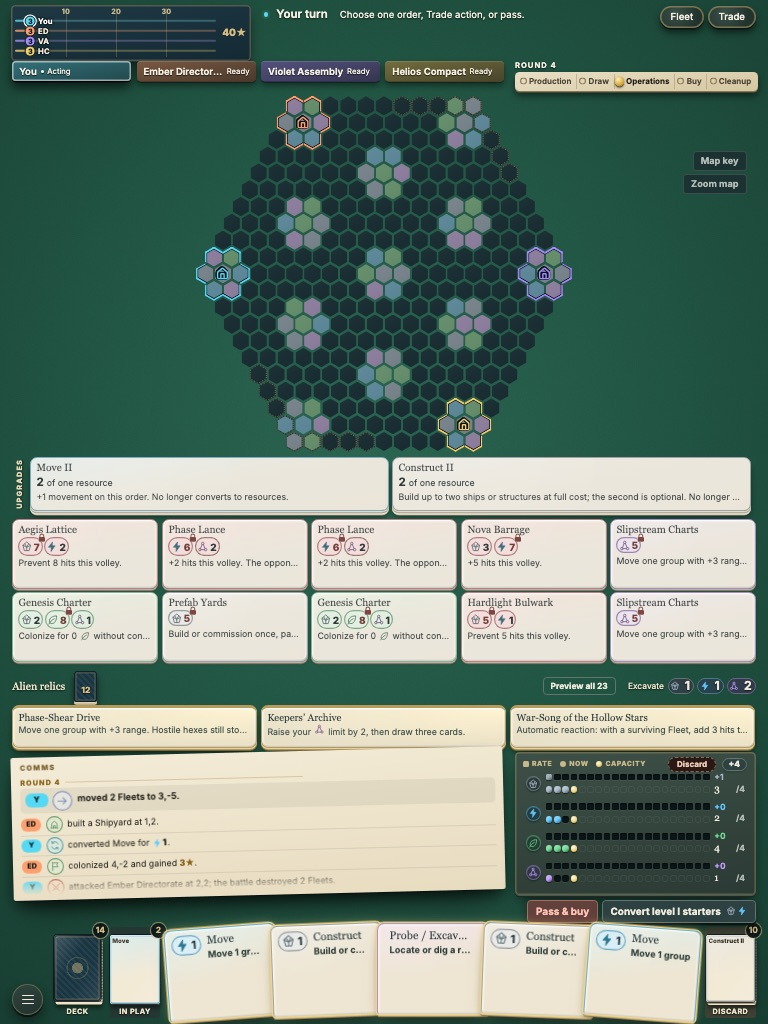
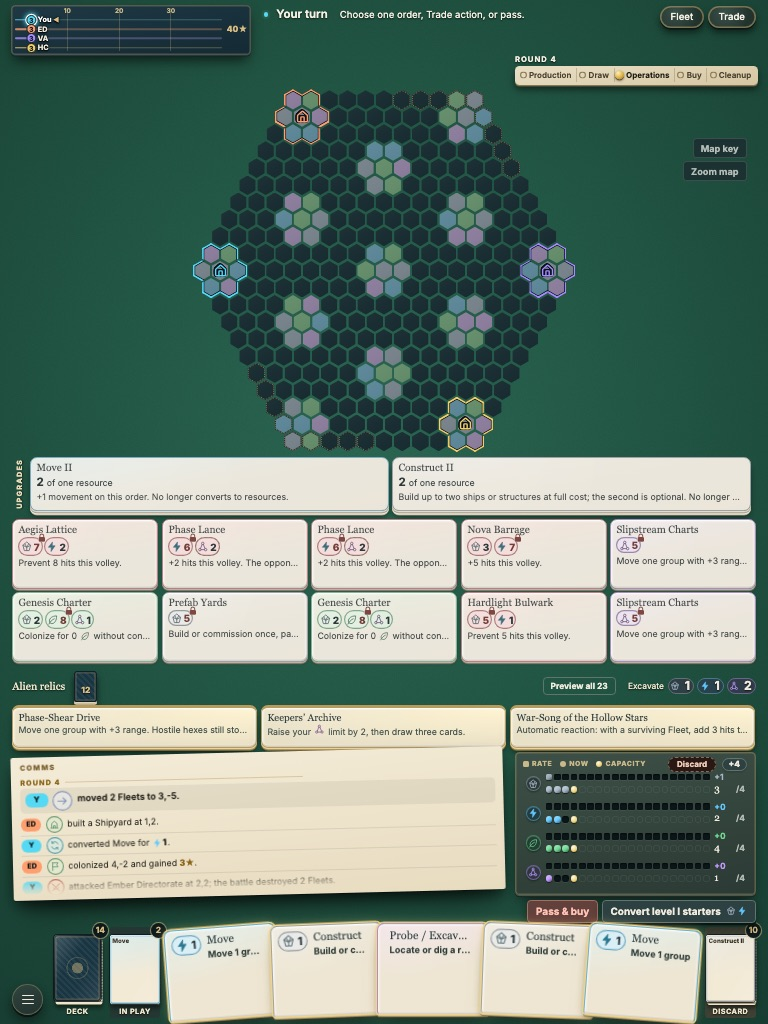
Standings live on the Prestige track: no faction name tiles; a compact track whose markers glow for the acting faction, show the overview on hover or focus and open the breakdown; the phone Table drawer is the track

Changed region(s): [[0.0, 0.0, 1.0, 0.4375], [0.875, 0.125, 0.9688, 0.1875]]

diff --git a/prototypes/galactic-reach/styles.css b/prototypes/galactic-reach/styles.css
@@ -1426,7 +1426,6 @@ summary:focus-visible, input:focus-visible, select:focus-visible { outline: 2px 
     --lane-h: 13px;
     --track-h: calc(var(--lanes) * var(--lane-h) + 16px);
     --board-w: calc((var(--table-h, 100dvh) - 16px - var(--front-h) - var(--track-h) - 46px) * 1.0543 + 26px);
-    --score-h: 26px;
     --cap-w: 150px;
     --res-w: 238px;
     --pile-w: max(52px, calc((var(--front-h) - 26px) * .716));
@@ -1436,9 +1435,7 @@ summary:focus-visible, input:focus-visible, select:focus-visible { outline: 2px 
     display: grid; grid-template-columns: var(--left-w) minmax(0, var(--board-w)) minmax(0, 1fr);
     grid-template-rows: auto auto auto auto minmax(0, 1fr) auto auto var(--front-h); gap: 6px 14px;
   }
-  .game-layout, .board-column, .board-stage, .board-canvas, .board-heading, .board-shared,
-  .faction-mats, .board-reference, .player-tableau, .console, .console-body, #hand-panel,
-  #hand-panel > .section-intro { display: contents; }
+  .game-layout, .board-column, .board-stage, .board-canvas, .board-heading, .board-shared, .board-reference, .player-tableau, .console, .console-body, #hand-panel, #hand-panel > .section-intro { display: contents; }
   .board-heading .board-inscription, .board-key, .prestige-legend, .table-jump, .map-pan-hint,
   .brand-seal, .summary-hint, .round-block { display: none !important; }
   #hand-panel > .section-intro > div:first-child, #market-panel .section-intro h2, #market-help, .resource-panel .panel-heading, #storage-upgrade-help, #history-status, #resource-tools-help {
@@ -1478,28 +1475,10 @@ summary:focus-visible, input:focus-visible, select:focus-visible { outline: 2px 
   .playtest-changes[open] > .button { display: none; }
   .playtest-changes[open] > p { position: fixed; left: 322px; bottom: calc(var(--front-h) + 14px); top: auto; transform: none; width: min(640px, calc(var(--table-w) - 346px)); min-height: 42px; margin: 0; padding: 8px 18px; border: 1px solid #a49c6f99; border-top-color: var(--line); border-radius: 0 0 10px 10px; background: #1b2b2d; box-sizing: border-box; }
 
-  /* ---- Left of the board: every faction's standings, then the comms feed. ---- */
-  .board-shared .score-ribbon { grid-column: 1; grid-row: 1 / 8; z-index: 8; align-self: start; margin: 12px 0 0 12px !important; display: grid; grid-template-columns: minmax(0, 1fr); grid-auto-rows: var(--score-h); gap: 5px; padding: 0; }
-  .board-shared .score-card, .board-shared .score-card:nth-child(n) {
-    grid-row: auto; grid-column: auto; position: relative; display: block; width: auto; max-width: none; height: var(--score-h); margin: 0; padding: 0 8px 0 9px; justify-self: stretch; overflow: hidden;
-    border: 0; border-left: 4px solid var(--player); border-radius: 7px;
-    background: linear-gradient(160deg, #2d403b, #22322f); box-shadow: inset 0 1px 0 #ffffff14, 0 3px 0 #0a1513, 0 8px 14px #0005;
-  }
-  .board-shared .score-card.active { box-shadow: inset 0 0 0 1.5px var(--player), 0 3px 0 #0a1513, 0 8px 14px #0005; }
-  .board-shared .score-info { display: flex; flex-wrap: nowrap; align-items: baseline; gap: 0 5px; height: 100%; align-items: center; }
-  .board-shared .score-meta { display: none; }
-  .board-shared .score-card .score-top { display: contents; }
-  .board-shared .score-card .score-name { flex: 0 1 auto; min-width: 0; overflow: hidden; text-overflow: ellipsis; white-space: nowrap; font-size: 12.5px; }
-  .board-shared .score-card .score-turn, .board-shared .score-meta > * { font-size: 10px; line-height: 1.25; color: var(--muted); white-space: nowrap; }
-  .board-shared .score-card.active .score-turn { color: var(--text); }
-  /* The score is on the Prestige lanes. The whole row opens the breakdown; pointing at it or
-     focusing it shows an overview card of that faction's points and stats. */
-  .board-shared button.score-value { position: absolute; inset: 0; z-index: 1; width: auto; min-width: 0; min-height: 0; margin: 0; padding: 0; border: 0; border-radius: inherit; background: none; box-shadow: none; color: transparent; font-size: 0; cursor: pointer; }
-  .board-shared button.score-value:focus-visible { outline: 2px solid var(--cyan); outline-offset: 1px; }
-  .board-shared .score-ribbon { z-index: 8; }
-  .board-shared .score-card:nth-child(n) { overflow: visible; }
+  /* Each Prestige marker opens its faction's point breakdown; pointing at it or focusing it shows
+     an overview card of that faction's points and stats. */
   .score-overview { position: absolute; width: 1px; height: 1px; overflow: hidden; clip-path: inset(50%); white-space: nowrap; }
-  .board-shared .score-card:is(:hover, :focus-within) .score-overview {
+  .prestige-marker:is(:hover, :focus-visible) + .score-overview {
     left: calc(100% + 8px); top: -6px; z-index: 40; width: 240px; height: auto; overflow: visible; clip-path: none; white-space: normal; pointer-events: none;
     padding: 8px 10px 7px; border: 1px solid color-mix(in srgb, var(--player) 60%, #a49c6f); border-left: 4px solid var(--player); border-radius: 8px;
     background: linear-gradient(160deg, #1d302d, #142320); box-shadow: 0 14px 30px #000a; color: var(--text); font-size: 11.5px; line-height: 1.3;
@@ -1511,7 +1490,7 @@ summary:focus-visible, input:focus-visible, select:focus-visible { outline: 2px 
   .score-overview dt { color: var(--muted); }
   .score-overview dd { margin: 0; font-weight: 700; }
   .score-overview p { margin: 6px 0 0; padding-top: 5px; border-top: 1px solid #d9bd8026; color: var(--muted); font-size: 10.5px; }
-  .board-shared .score-value small, .faction-counter { display: none; }
+
   /* The comms feed fills the rest of the left side; it scrolls on its own, newest first. */
   .log-panel {
     grid-column: 3; grid-row: 1; align-self: start; height: var(--log-h); position: relative; z-index: 4; min-width: 0; min-height: 0; display: flex; flex-direction: column;
@@ -1611,12 +1590,7 @@ summary:focus-visible, input:focus-visible, select:focus-visible { outline: 2px 
   .prestige-marker b { flex: none; display: grid; place-items: center; min-width: 14px; height: 14px; padding: 0 2px; border: 1.5px solid #0d1a1d; border-radius: 7px; background: var(--player); color: #0d1a1d; font-size: 9.5px; font-weight: 800; }
   .prestige-name { font-weight: 700; letter-spacing: .02em; text-shadow: 0 1px 2px #000, 0 0 3px #000; }
   .prestige-marker.acting b { box-shadow: 0 0 0 1.5px #fff; }
-  .prestige-marker::after {
-    content: attr(aria-label); position: absolute; z-index: 40; left: 0; top: calc(100% + 4px); display: none; padding: 4px 9px; border: 1px solid var(--player); border-radius: 6px; background: #0d1a1d; color: var(--text);
-    font-family: Inter, ui-sans-serif, system-ui, -apple-system, BlinkMacSystemFont, "Segoe UI", sans-serif; font-size: 12px; font-weight: 700; line-height: 1.3; white-space: nowrap; text-shadow: none; box-shadow: 0 6px 16px #0008; pointer-events: none;
-  }
-  .prestige-marker:hover::after { display: block; }
-  .prestige-marker.flip::after { left: auto; right: 0; }
+
   .prestige-marker.acting .prestige-name { color: #fff; }
   .map-tools { z-index: 5; align-self: start; justify-self: end; display: flex; flex-direction: column; align-items: flex-end; gap: 4px; margin-top: calc(var(--track-h) + 4px); padding: 0 12px; pointer-events: none; }
   .map-tools > * { pointer-events: auto; }
@@ -1973,12 +1947,10 @@ summary:focus-visible, input:focus-visible, select:focus-visible { outline: 2px 
   .board-map-region { border: 0 !important; border-radius: 14px !important;
     background: radial-gradient(ellipse at 50% 45%, #1f3944 0%, #132833 62%, #0e1f27 100%) !important;
     box-shadow: inset 0 0 0 2px #2c4650, inset 0 0 0 7px #0d1b21, inset 0 0 0 8px #a28e5f55, 0 3px 0 #0b1518, 0 6px 0 #081114, 0 22px 40px #000b !important; }
-  /* Standings: small faction mats at the table's top-left. */
-  .board-shared .score-ribbon { margin: 0 !important; }
-  /* The comms feed: a sheet lying on the table at the left, under the standings. */
+  /* The comms feed: a sheet lying on the table at the left, under the Prestige track. */
   .log-panel {
     grid-column: 1 !important; grid-row: 1 / 8 !important; align-self: stretch !important; height: auto !important;
-    margin: calc(var(--lanes) * (var(--score-h) + 5px) + 12px) 0 calc(var(--bank-h) + 14px) !important;
+    margin: calc(var(--track-h) + 14px) 0 calc(var(--bank-h) + 14px) !important;
     padding: 8px 8px 6px 10px !important; border: 1px solid #d9bd8030; border-radius: 10px;
     background: linear-gradient(170deg, #12242acc, #0c1a1ecc); box-shadow: 0 2px 0 #0a1416, 0 14px 26px #0008; backdrop-filter: blur(2px);
     transform: rotate(-.6deg);
@@ -2028,12 +2000,7 @@ summary:focus-visible, input:focus-visible, select:focus-visible { outline: 2px 
     box-shadow: inset 0 0 0 3px #2d4852, inset 0 0 0 9px #0d1b21, inset 0 0 0 10px #c2a76b66,
       0 1px 0 #3b5560, 0 2px 0 #2a3f47, 0 3px 0 #1d2e35, 0 4px 0 #142227, 0 5px 0 #0e181c, 0 18px 30px -6px #000c, 0 34px 60px -20px #000a !important; }
   /* Standings: faction tiles (thick card in each faction's colour). */
-  .board-shared .score-ribbon { gap: 7px !important; }
-  .board-shared .score-card, .board-shared .score-card:nth-child(n) { border: 0 !important; border-radius: 5px !important;
-    background: linear-gradient(170deg, color-mix(in srgb, var(--player) 42%, #1a2622), color-mix(in srgb, var(--player) 24%, #121a18)) !important;
-    box-shadow: inset 0 1px 0 #ffffff30, 0 1px 0 color-mix(in srgb, var(--player) 40%, #000), 0 2px 0 #0008, 0 6px 10px #0007 !important; }
-  .board-shared .score-card.active { box-shadow: inset 0 0 0 2px #fff8, 0 1px 0 #000, 0 2px 0 #0008, 0 8px 14px #000a !important; }
-  .board-shared .score-card .score-name, .board-shared .score-card .score-turn { color: #f6f1e4 !important; text-shadow: 0 1px 1px #0009; }
+
   /* The comms feed: one paper sheet, slightly turned, lying left of the board. */
   .log-panel { border: 0 !important; border-radius: 3px !important; backdrop-filter: none !important;
     background: linear-gradient(175deg, #f4ecd8, #e8dcc0) !important; transform: rotate(-1.4deg) !important;
@@ -2104,11 +2071,11 @@ summary:focus-visible, input:focus-visible, select:focus-visible { outline: 2px 
   .board-map-region { grid-row: 1 / 9 !important; margin: 0 !important; padding: 0 !important; border: 0 !important; background: none !important; box-shadow: none !important; overflow: visible !important; }
   .galaxy-board, .has-saved-table .galaxy-board, .has-replay .galaxy-board { width: min(100cqw, 100cqh * 1.0543) !important; }
   .map-tools { grid-row: 1 / 9 !important; }
-  /* Left of the map: the Prestige race as a printed track, the faction tiles, the comms sheet, the bank. */
+  /* Left of the map: the Prestige race as a printed track, the comms sheet, the bank. */
   .prestige-track { grid-column: 1 !important; grid-row: 1 !important; margin: 2px 48px 0 4px !important; padding: 0; z-index: 6; }
   .prestige-track::before { content: ''; position: absolute; inset: -4px -46px -6px -6px; z-index: -1; border-radius: 6px; background: linear-gradient(170deg, #1f3944, #142a35); box-shadow: inset 0 0 0 2px #c2a76b55, 0 1px 0 #2a3f47, 0 2px 0 #142227, 0 10px 16px -4px #000a; }
-  .board-shared .score-ribbon { grid-row: 1 / 9 !important; margin-top: calc(var(--track-h) + 14px) !important; }
-  .log-panel { grid-row: 1 / 9 !important; margin-top: calc(var(--track-h) + 14px + var(--lanes) * (var(--score-h) + 7px) + 10px) !important; }
+
+  .log-panel { grid-row: 1 / 9 !important; margin-top: calc(var(--track-h) + 14px) !important; }
   .resource-tools { grid-row: 1 / 9 !important; }
   /* Your seat: Deck and In play bottom-left, the hand under the map. */
   .table-menu-button, .pile-stats > button[id], #hand-row { grid-row: 9 !important; }
@@ -2178,7 +2145,7 @@ summary:focus-visible, input:focus-visible, select:focus-visible { outline: 2px 
   .prestige-track { grid-column: 1 !important; grid-row: 1 !important; }
   .board-toolbar { grid-column: 2 / 4 !important; grid-row: 1 !important; }
   .console-nav { grid-column: 3 !important; grid-row: 1 !important; }
-  .board-shared .score-ribbon { grid-column: 1 / 3 !important; grid-row: 2 !important; margin: 0 !important; grid-template-columns: repeat(4, minmax(0, 1fr)) !important; }
+
   .phase-stepper { grid-column: 3 !important; grid-row: 2 !important; }
   .board-map-region, .map-tools { grid-column: 1 / -1 !important; grid-row: 3 !important; }
   #market-panel, #market-panel[hidden] { grid-column: 1 / -1 !important; grid-row: 4 !important; height: 268px; }
@@ -2267,7 +2234,7 @@ summary:focus-visible, input:focus-visible, select:focus-visible { outline: 2px 
   body[data-drawer="comms"] .log-panel { display: block !important; }
   body[data-drawer="comms"] .game-log { max-height: none !important; overflow: visible !important; }
   body[data-drawer="table"] .board-shared .board-reference, body[data-drawer="table"] .board-shared .board-key { display: none !important; }
-  body[data-drawer="table"] .score-ribbon { display: grid !important; grid-template-columns: minmax(0, 1fr); gap: 6px; }
+
   .score-overview { position: absolute; width: 1px; height: 1px; overflow: hidden; clip-path: inset(50%); }
   /* Notices sit above the turn's buttons. */
   .toast { left: 8px; right: 8px; bottom: calc(var(--tabs-h) + var(--actions-h) + 8px); max-width: none; z-index: 70; }
@@ -2338,10 +2305,9 @@ summary:focus-visible, input:focus-visible, select:focus-visible { outline: 2px 
 
 #resource-grid > .mat-head .mat-hint { display: none !important; }
 
-/* ==== The map's top-left corner holds the Prestige track and the faction tiles: the map sits at
-   the right of a region that also covers a narrow left strip, and the track and tiles reach from
-   that strip into the map's empty corner (the hexagon leaves a triangle there). The comms sheet
-   lies in the strip below them. Sizes are in table units, so this scales with the table. ==== */
+/* ==== The map sits at the right of a region that also covers a narrow left strip; the Prestige
+   track lies at the top of that strip, by the map's empty corner (the hexagon leaves a triangle
+   there), and the comms sheet below it. Sizes are in table units, so this scales with the table. ==== */
 @media (min-width: 600px) and (min-height: 600px) and (orientation: landscape) {
   .app-shell, .has-saved-table .app-shell, .has-replay .app-shell {
     --left-w: 210px;
@@ -2351,8 +2317,8 @@ summary:focus-visible, input:focus-visible, select:focus-visible { outline: 2px 
   .board-map-region { grid-column: 1 / 3 !important; place-items: center end !important; }
   .galaxy-board, .has-saved-table .galaxy-board, .has-replay .galaxy-board { width: min(100cqw, 100cqh * 1.0543, var(--board-w)) !important; }
   .map-tools { grid-column: 1 / 3 !important; }
-  .prestige-track { grid-column: 1 / 3 !important; justify-self: start !important; width: calc(var(--left-w) + var(--board-w) * .15); margin-left: 4px !important; }
-  .board-shared .score-ribbon { grid-column: 1 / 3 !important; justify-self: start !important; width: calc(var(--left-w) + var(--board-w) * .1); }
+  .prestige-track { grid-column: 1 / 3 !important; justify-self: start !important; margin-left: 4px !important; }
+
   .log-panel { grid-column: 1 !important; }
 }
 @media (min-width: 600px) and (min-height: 600px) and (orientation: landscape) {
@@ -2405,4 +2371,59 @@ html { -webkit-text-size-adjust: 100%; text-size-adjust: 100%; }
 }
 @media (max-height: 599px) and (orientation: landscape) {
   body { --peek-h: 92px; }
+}
+
+/* ==== The Prestige track carries the players (no faction tiles): one thin lane per faction with
+   its coloured marker and short label. The acting faction's marker glows and has an arrow. Each
+   marker is a button that opens the point breakdown; pointing at it or focusing it shows the
+   faction's overview. ==== */
+.score-overview-title i { display: block; color: var(--muted); font-size: 11px; font-style: normal; font-weight: 600; }
+.prestige-marker { padding: 0; margin: 0; border: 0; background: none; font: inherit; cursor: pointer; }
+.prestige-marker.acting .prestige-name::after { content: '◀'; margin-left: 2px; color: var(--gold); font-size: .85em; }
+.prestige-lane.flip .prestige-marker.acting .prestige-name::after { content: none; }
+.prestige-lane.flip .prestige-marker.acting .prestige-name::before { content: '▶'; margin-right: 2px; color: var(--gold); font-size: .85em; }
+.prestige-marker.acting b { box-shadow: 0 0 0 1.5px #fff, 0 0 7px 2px var(--player); }
+.prestige-marker:focus-visible { outline: 2px solid var(--cyan); outline-offset: 1px; border-radius: 8px; }
+/* A finger-sized target around the small marker. */
+.prestige-marker::after { content: ''; position: absolute; inset: -5px -4px; }
+#prestige-stats { margin: -8px 0 14px; color: var(--muted); }
+@media (min-width: 600px) and (min-height: 600px) {
+  .app-shell, .has-saved-table .app-shell, .has-replay .app-shell { --lane-h: 12px; --track-h: calc(var(--lanes) * var(--lane-h) + 12px); }
+  .prestige-line { inset: 10px 0 0; }
+  .prestige-tick { top: -10px; }
+  .prestige-tick > span { font-size: 8.5px; }
+  .prestige-track-goal { padding-left: 6px; font-size: 11px; }
+  .prestige-lane::before, .prestige-lane::after { height: 2px; }
+  .prestige-marker { position: absolute; gap: 2px; font-size: 9.5px; color: var(--text); transform: translate(-6px, -50%); }
+  .prestige-lane.flip .prestige-marker { flex-direction: row-reverse; transform: translate(calc(-100% + 6px), -50%); }
+  .prestige-marker b { min-width: 13px; height: 13px; border-radius: 7px; font-size: 9px; }
+  .prestige-track { margin-right: 40px !important; }
+  .prestige-track::before { inset: -4px -38px -5px -6px !important; }
+  #prestige-track:has(.prestige-marker:is(:hover, :focus-visible)) { z-index: 45 !important; }
+  .prestige-lane .prestige-marker:is(:hover, :focus-visible) + .score-overview { left: max(-4px, calc(var(--at) - 10px)); top: calc(50% + 10px); }
+  .prestige-lane.flip .prestige-marker:is(:hover, :focus-visible) + .score-overview { left: auto; right: calc(100% - var(--at) - 10px); }
+}
+@media (min-width: 600px) and (min-height: 600px) and (orientation: landscape) {
+  .prestige-track { width: calc(var(--left-w) - 46px) !important; }
+}
+/* Phones: the Table drawer is the track, as a sheet; tapping a marker opens its breakdown. */
+@media (max-width: 599px), (max-height: 599px) {
+  body[data-drawer="table"] .board-shared { display: none !important; }
+  body[data-drawer="table"] .prestige-track {
+    display: block !important; position: fixed !important; left: 0; right: 0; bottom: calc(var(--safe-b, 0px) + var(--tabs-h) + var(--actions-h)); z-index: 40;
+    margin: 0; padding: 24px calc(var(--safe-r, 0px) + 56px) 14px calc(var(--safe-l, 0px) + 18px);
+    border-top: 1px solid #a49c6f66; border-radius: 14px 14px 0 0; background: #142320f5; box-shadow: 0 -12px 30px #0009;
+  }
+  .prestige-line { position: relative; }
+  .prestige-tick { position: absolute; left: var(--at); top: -16px; bottom: 0; width: 1px; background: #d9bd8040; }
+  .prestige-tick > span { position: absolute; top: 0; left: 50%; transform: translateX(-50%); color: #c9b98a; font-size: 10px; font-weight: 700; line-height: 1; }
+  .prestige-track-goal { position: absolute; right: calc(var(--safe-r, 0px) + 12px); top: 50%; transform: translateY(-20%); color: var(--gold); font-size: 15px; font-weight: 800; white-space: nowrap; }
+  .prestige-lane { position: relative; height: 30px; }
+  .prestige-lane::before, .prestige-lane::after { content: ''; position: absolute; left: 0; top: 50%; height: 3px; transform: translateY(-50%); border-radius: 2px; }
+  .prestige-lane::before { right: 0; background: color-mix(in srgb, var(--player) 22%, #d9bd8020); }
+  .prestige-lane::after { width: var(--at); background: color-mix(in srgb, var(--player) 70%, transparent); }
+  .prestige-marker { position: absolute; z-index: 1; left: var(--at); top: 50%; display: inline-flex; align-items: center; gap: 4px; transform: translate(-11px, -50%); color: var(--text); font-size: 13px; line-height: 1; white-space: nowrap; }
+  .prestige-lane.flip .prestige-marker { flex-direction: row-reverse; transform: translate(calc(-100% + 11px), -50%); }
+  .prestige-marker b { flex: none; display: grid; place-items: center; min-width: 22px; height: 22px; padding: 0 3px; border: 2px solid #0d1a1d; border-radius: 11px; background: var(--player); color: #0d1a1d; font-size: 12px; font-weight: 800; }
+  .prestige-name { font-weight: 700; letter-spacing: .02em; text-shadow: 0 1px 2px #000, 0 0 3px #000; }
 }

diff --git a/prototypes/galactic-reach/app.js b/prototypes/galactic-reach/app.js
@@ -3611,6 +3611,8 @@ function createGalacticReach(options = {}) {
   function showPrestigeBreakdown(playerId) {
     const points = prestigeBreakdown(playerId);
     $('#prestige-title').textContent = `${state.players[playerId].name} · ${points.total} Prestige`;
+    const player = state.players[playerId], colonies = colonyPlanets(playerId).length;
+    $('#prestige-stats').textContent = `${state.activePlayer===playerId && state.winner===null ? 'Acting' : player.passed ? 'Passed' : 'Ready'} · ${colonies} ${colonies===1?'colony':'colonies'} · ${player.cardsPurchased||0} cards bought · ${strongestFleet(playerId)} fleet power`;
     $('#prestige-breakdown').innerHTML = [
       ['Colonies · 3 each',points.colonies],
       ['Excavated relics · 2 each',points.relics],[`Decisive combat victories · ${COMBAT_VICTORY_PRESTIGE} each`,points.combat],['Card Prestige',points.cards]
@@ -3619,17 +3621,26 @@ function createGalacticReach(options = {}) {
     if (!dialog.open) dialog.showModal();
   }
 
+  // The race to the Prestige goal: one lane per faction, in seat order, so every marker sits exactly
+  // at its score. Each marker opens that faction's point breakdown; pointing at it or focusing it
+  // shows an overview of its points and stats. The acting faction's marker glows.
   function renderScoreboard() {
-    $('#score-ribbon').innerHTML = state.players.map((player,id)=>{
+    const target = victoryTarget();
+    const ticks = [1,2,3].map(step => Math.round(target * step / 4)).map(value => `<span class="prestige-tick" style="--at:${value / target * 100}%"><span>${value}</span></span>`).join('');
+    const tag = (player,id) => id===ME && !replayMode ? 'You' : player.name.split(/\s+/).filter(Boolean).map(word => word[0]).join('').slice(0,3).toUpperCase();
+    const lanes = state.players.map((player,id) => {
       const active = state.activePlayer===id && state.winner===null;
+      const status = active ? 'Acting' : player.passed ? 'Passed' : 'Ready';
       const elo = state.replayElo?.[id];
-      const eloText = elo ? `<span class="score-elo">Elo ${Math.round(elo.before)} → ${Math.round(elo.after)} (${elo.after>=elo.before?'+':''}${(elo.after-elo.before).toFixed(1)})</span>` : '';
-      const colonies = colonyPlanets(id).length, breakdown = prestigeBreakdown(id), points = breakdown.total;
-      // Pointing at or focusing a standing opens an overview of its points and stats.
+      const eloText = elo ? ` · Elo ${Math.round(elo.before)} → ${Math.round(elo.after)} (${elo.after>=elo.before?'+':''}${(elo.after-elo.before).toFixed(1)})` : '';
+      const colonies = colonyPlanets(id).length, breakdown = prestigeBreakdown(id), points = breakdown.total, at = Math.min(100, points / target * 100);
       const sources = [['Colonies', breakdown.colonies], ['Relics', breakdown.relics], ['Battles', breakdown.combat], ['Cards', breakdown.cards]];
-      const overview = `<div class="score-overview"><strong class="score-overview-title">${esc(player.name)} <b>${points} of ${victoryTarget()}★</b></strong><dl>${sources.map(([label,value])=>`<div><dt>${label}</dt><dd>${value}★</dd></div>`).join('')}</dl><p>${colonies} ${colonies===1?'colony':'colonies'} · ${player.cardsPurchased||0} cards bought · ${strongestFleet(id)} fleet power</p></div>`;
-      return `<article class="score-card ${active?'active':''} ${replayMode&&id===viewSeat?'viewing':''}" style="--player:${player.color}"><span class="faction-counter" aria-hidden="true">${String(id+1).padStart(2,'0')}</span><div class="score-info"><div class="score-top"><span class="score-name">${esc(player.name)}</span><span class="score-turn">${active?'Acting':player.passed?'Passed':'Ready'}</span></div>${overview}<div class="score-meta"><span>${colonies} ${colonies===1?'colony':'colonies'}</span><span>${player.cardsPurchased||0} cards bought</span><span>${strongestFleet(id)} fleet power</span>${eloText}</div></div><button type="button" class="score-value" data-score-player="${id}" aria-label="${esc(player.name)}: ${points} Prestige. Show point breakdown" aria-haspopup="dialog">${points} <small>Prestige</small></button></article>`;
+      const overview = `<div class="score-overview" id="score-overview-${id}" role="tooltip"><strong class="score-overview-title"><span>${esc(player.name)} <i>${status}</i></span><b>${points} of ${target}★</b></strong><dl>${sources.map(([label,value])=>`<div><dt>${label}</dt><dd>${value}★</dd></div>`).join('')}</dl><p>${colonies} ${colonies===1?'colony':'colonies'} · ${player.cardsPurchased||0} cards bought · ${strongestFleet(id)} fleet power${eloText}</p></div>`;
+      const label = `${esc(player.name)}, ${status}: ${points} of ${target} Prestige. Show point breakdown`;
+      return `<div class="prestige-lane${at>70?' flip':''}" style="--player:${player.color};--at:${at}%"><button type="button" class="prestige-marker${active?' acting':''}${replayMode&&id===viewSeat?' viewing':''}" data-score-player="${id}" aria-label="${label}" aria-describedby="score-overview-${id}" aria-haspopup="dialog"><b>${points}</b><span class="prestige-name">${esc(tag(player,id))}</span></button>${overview}</div>`;
     }).join('');
+    $('#prestige-track').innerHTML = `<span class="prestige-track-goal">${target}★</span><div class="prestige-line">${ticks}${lanes}</div>`;
+    $('.app-shell')?.style.setProperty('--lanes', state.players.length);
     $$('[data-score-player]').forEach(button=>button.addEventListener('click',()=>showPrestigeBreakdown(Number(button.dataset.scorePlayer))));
     renderHistoryStatus();
   }
@@ -4176,23 +4187,12 @@ function createGalacticReach(options = {}) {
     $('#trade-ledger').innerHTML=state.players.filter(player=>player.id!==viewSeat).map(player=>`<div><span>${esc(player.name)}</span><strong>${state.players[viewSeat].tradesWith[player.id]} completed</strong></div>`).join('');
   }
 
-  // Board edges: the round's phases, the race to the Prestige goal and the primary action.
+  // Board edges: the round's phases and the primary action.
   const STEPPER_PHASES = ['production','draw','operations','buy','cleanup'];
   function renderBoardEdges() {
     $('#stepper-round').textContent = `Round ${state.round}`;
     const steps = $('#phase-stepper-steps');
     steps.innerHTML = STEPPER_PHASES.map(phase => `<li class="${phase===state.phase?'current':''}" ${phase===state.phase?'aria-current="step"':''}>${phase[0].toUpperCase()+phase.slice(1)}</li>`).join('');
-    const target = victoryTarget();
-    // One lane per faction, in seat order, so every marker sits exactly at its score.
-    const ticks = [1,2,3].map(step => Math.round(target * step / 4)).map(value => `<span class="prestige-tick" style="--at:${value / target * 100}%"><span>${value}</span></span>`).join('');
-    const tag = (player,id) => id===ME && !replayMode ? 'You' : player.name.split(/\s+/).filter(Boolean).map(word => word[0]).join('').slice(0,3).toUpperCase();
-    const lanes = state.players.map((player,id) => {
-      const points = calculatePrestige(id), at = Math.min(100, points / target * 100);
-      const label = `${esc(player.name)}: ${points} of ${target} Prestige`;
-      return `<div class="prestige-lane" style="--player:${player.color};--at:${at}%"><span class="prestige-marker${id===state.activePlayer?' acting':''}${at>88?' flip':''}" role="img" aria-label="${label}"><b>${points}</b><span class="prestige-name">${esc(tag(player,id))}</span></span></div>`;
-    }).join('');
-    $('#prestige-track').innerHTML = `<span class="prestige-track-goal">${target}★</span><div class="prestige-line">${ticks}${lanes}</div>`;
-    $('.app-shell')?.style.setProperty('--lanes', state.players.length);
   }
   function renderBoardPrimary() {
     const primary = $('#board-primary');

diff --git a/prototypes/galactic-reach/rulebook.html b/prototypes/galactic-reach/rulebook.html
@@ -123,7 +123,7 @@
 
       <section id="movement">
         <h2>05 / Exploration &amp; movement</h2>
-        <p id="shared-board">Read shared table information around the board: on a desktop window, the whole window is one table, scaled as a whole to fit; faction standings lie over the map’s empty top-left corner with the comms feed as a sheet below them (each faction’s standing is a name row: point at or focus it for an overview of its Prestige sources, colonies, cards bought and fleet power, or select it for the breakdown; each comms entry shows who acted, a symbol for the kind of event and its resource and Prestige amounts; point at an entry for the full sentence); the map itself is as large as the window allows, and every faction’s race to the Prestige goal is a printed track over the map’s top-left corner, one lane per faction with its marker at its current score; and to its right are the turn prompt and the round’s phases, with <strong>Fleet</strong> and <strong>Trade</strong>, then the supply, all visible together: the <strong>Upgrades</strong> tray (with <strong>Trash a card</strong> beside it during Buy), the ten market cards and the face-up alien relics. <strong>Fleet</strong> opens over the supply. The game’s title, rules, card gallery, new game, Undo and playtest notes open from the menu button in the bottom-left corner. The market shows its cards as compact card tops (point at one to read it in full; choose it to buy), and cards you can buy now are outlined in gold. <strong>Trade</strong> opens the trade channel in its own window. Card frames take the colour of the resource a card works with (gold for capacity, Buy and Prestige cards, red for military and attack cards); the map key shows them. Click a point total to inspect its breakdown; the scoring reference is in <a href="#victory">Victory</a>. On a narrow screen, these panels reflow inside the board frame; scroll the map to reach other hexes. The recent-action feed can say that Probe was used, but never gives its private relic location. Your hand, card piles, reserves, and full game-report download stay on your player mat. The report can include private information.</p>
+        <p id="shared-board">Read shared table information around the board: on a desktop window, the whole window is one table, scaled as a whole to fit; the standings are the race to the Prestige goal, a small printed track by the map’s top-left corner with one lane per faction and its marker at its current score (the acting faction’s marker glows, with an arrow; point at or focus a marker for an overview of that faction’s Prestige sources, colonies, cards bought and fleet power, or select it for the breakdown; on a phone the track is the <strong>Table</strong> drawer); the comms feed lies as a sheet below it (each entry shows who acted, a symbol for the kind of event and its resource and Prestige amounts; point at an entry for the full sentence); the map itself is as large as the window allows; and to its right are the turn prompt and the round’s phases, with <strong>Fleet</strong> and <strong>Trade</strong>, then the supply, all visible together: the <strong>Upgrades</strong> tray (with <strong>Trash a card</strong> beside it during Buy), the ten market cards and the face-up alien relics. <strong>Fleet</strong> opens over the supply. The game’s title, rules, card gallery, new game, Undo and playtest notes open from the menu button in the bottom-left corner. The market shows its cards as compact card tops (point at one to read it in full; choose it to buy), and cards you can buy now are outlined in gold. <strong>Trade</strong> opens the trade channel in its own window. Card frames take the colour of the resource a card works with (gold for capacity, Buy and Prestige cards, red for military and attack cards); the map key shows them. Select a Prestige marker to inspect its breakdown; the scoring reference is in <a href="#victory">Victory</a>. On a narrow screen, these panels reflow inside the board frame; scroll the map to reach other hexes. The recent-action feed can say that Probe was used, but never gives its private relic location. Your hand, card piles, reserves, and full game-report download stay on your player mat. The report can include private information.</p>
         <p id="keyboard-controls">Use <strong>Tab</strong> to reach controls and <strong>Enter</strong> or <strong>Space</strong> to activate them. The first link skips straight to player controls. Use arrow keys, Home, or End to switch the player-control tabs. Escape closes inspectors and reference windows. Combat and excess-resource choices stay open until you make the required choice.</p>
         <div class="book-legend" role="group" aria-label="Map symbols"><span><b class="relic-mark" aria-hidden="true">◈</b> Located relic</span><span><b class="relic-mark" aria-hidden="true">●</b> Gray moon · no production</span></div>
         <p>World terrain is always public, but seeing a world does not locate its relic. Any Settler, Fleet, or Explorer ending a move surveys that world or moon, revealing its terrain to everyone. Arrival never locates a relic. Use <strong>Probe</strong> from your Explorer’s current hex to locate the nearest remaining relic you have not already discovered, even on an unvisited world or hidden moon. Known sites are skipped. When you locate the last unknown site, a message tells you that all remaining relics are discovered. If all remaining sites are already known to you, Probe warns you without spending the card or your action. You do not need to reach that world or moon first. A signal on an undiscovered moon reveals the relic’s hex to you without revealing the moon’s terrain. Other players must locate it for themselves. Existing discovery relic cards keep their printed effects. Probe and Chorus signals stay private after later terrain surveys. Only an effect that explicitly reveals relics to everyone makes them public. All players’ units remain visible, including in empty space. Unit markers alone do not reveal a hidden moon or relic.</p>

diff --git a/prototypes/galactic-reach/index.html b/prototypes/galactic-reach/index.html
@@ -80,10 +80,6 @@
       </div>
             </div>
       <aside class="board-shared" aria-label="Shared table information">
-        <section class="faction-mats" aria-labelledby="factions-title">
-          <h2 class="sr-only" id="factions-title">Faction standings</h2>
-          <div class="score-ribbon" id="score-ribbon" role="group" aria-label="Player standings"></div>
-        </section>
 
         <section class="board-key" aria-labelledby="board-key-title">
           <div class="eyebrow">AT A GLANCE</div><h2 id="board-key-title">Galaxy key</h2>
@@ -119,7 +115,7 @@
         </div>
       </aside>
             <nav class="phase-stepper" id="phase-stepper" aria-label="Round phases"><strong id="stepper-round">Round 1</strong><ol id="phase-stepper-steps"></ol></nav>
-            <div class="prestige-track" id="prestige-track" role="group" aria-label="Race to the Prestige goal"></div>
+            <div class="prestige-track" id="prestige-track" role="group" aria-label="Faction standings: the race to the Prestige goal"></div>
             <div class="board-map-region">
               <div class="galaxy-board" id="galaxy-board" role="group" aria-label="Interactive galaxy map" aria-describedby="resource-legend symbol-legend"></div>
             </div>
@@ -246,6 +242,7 @@
 
   <dialog id="prestige-dialog" aria-labelledby="prestige-title">
     <div class="dialog-heading"><div><div class="eyebrow">POINT BREAKDOWN</div><h2 id="prestige-title">Prestige</h2></div><button class="button button-ghost dialog-close" id="close-prestige" type="button" aria-label="Close point breakdown">Close</button></div>
+    <p class="prestige-stats" id="prestige-stats"></p>
     <dl class="prestige-breakdown" id="prestige-breakdown"></dl>
     <p class="muted">Each Colony scores 3, each excavated relic 2, and each decisive combat victory 1. Relic, combat and card points are permanent.</p>
     <p><a href="rulebook.html#victory" target="_blank" rel="noopener">Scoring rules ↗</a></p>

diff --git a/changes/gr-no-scroll-ui-u1.md b/changes/gr-no-scroll-ui-u1.md
@@ -3,4 +3,4 @@ compat: safe
 title: A real table that fits your window
 pr: 53
 ---
-On a desktop window the game no longer scrolls: the whole window is one table, scaled as a whole to fit. The board lies in the middle with one lane per faction for the race to the Prestige goal along its edge; standings, a comms sheet and an open bank tray lie to its left; the turn and round markers and the whole supply at once (an Upgrades tray, the market and the alien relics) lie to its right; and your seat runs along the bottom: Deck and In play, your hand, a player mat with stock bowls, production and capacity tracks, and Discard with the turn's buttons ([Player mat](rulebook.html#player-mat)). Cards look like printed card stock in a slight fan; point at one to read it whole, drag it onto a lit hex to play it or onto your mat to convert it. Market prices sit in each card's corner with a padlock on any resource above your limit, cards you can't buy yet are shaded with the reason ([Buy](rulebook.html#buy)), and held planets are ringed and buildings drawn in their owner's colour ([Reading ownership](rulebook.html#ownership-colours)). The page header folds into a menu and Trade opens in its own window.
+On a desktop window the game no longer scrolls: the whole window is one table, scaled as a whole to fit. The map is as large as the window allows. By its top-left corner a small printed track races every faction to the Prestige goal (the acting faction's marker glows; point at a marker for that faction's overview, select it for the breakdown), with the comms sheet below it. The turn and round and the whole supply at once (an Upgrades tray, the market and the alien relics) lie to the right, and your seat runs along the bottom: Deck and In play, your hand, a player mat of pips for production, stock and capacity, and Discard with the turn's buttons. Drag 4 of one resource onto another on your mat to trade with the bank ([Player mat](rulebook.html#player-mat)). Cards look like printed card stock in a slight fan; point at one to read it whole, drag it onto a lit hex to play it or onto your mat to convert it. Market prices sit in each card's corner with a padlock on any resource above your limit, cards you can't buy yet are shaded with the reason ([Buy](rulebook.html#buy)), and held planets are ringed and buildings drawn in their owner's colour ([Reading ownership](rulebook.html#ownership-colours)). iPads get the same table, and phones a full-screen map with the hand, supply, mat, comms and track in drawers.
